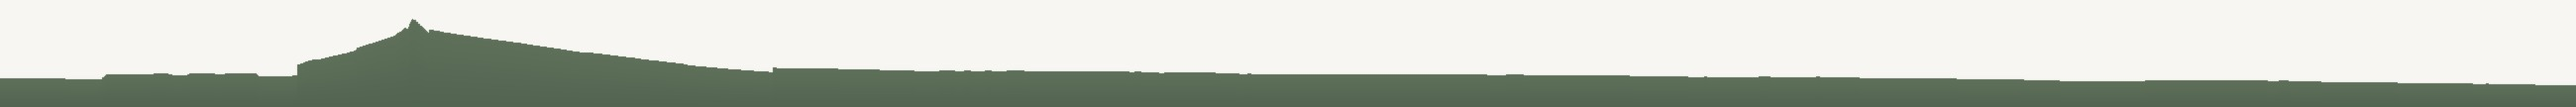
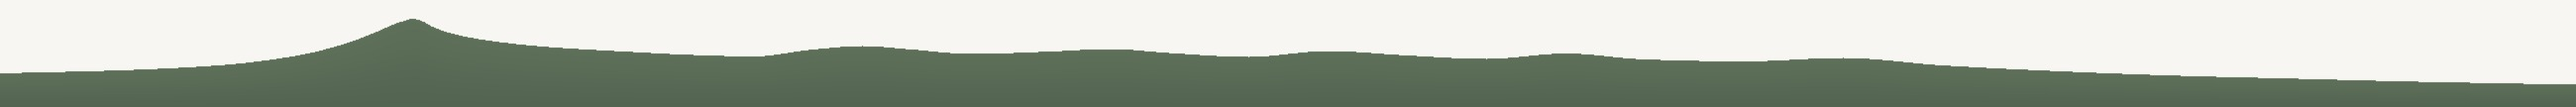
Trace Gene’s mirrored Diablo lock: high left, soft rolls right.
Primary crest sits in the Lafayette triangle; a shallow saddle, secondary roll, mid-band rhythm, and quiet right tail follow the lock photo character instead of a multi-peak construction.

diff --git a/app/page.tsx b/app/page.tsx
@@ -73,7 +73,7 @@ export default function Home() {
         <div className="pulse-home-ridge__scene" aria-hidden="true">
           <div className="pulse-home-ridge__align max-w-7xl mx-auto px-4 sm:px-6 lg:px-8">
             <img
-              src="/pulse-ridge.jpg?v=diablo-7"
+              src="/pulse-ridge.jpg?v=lock-1"
               alt=""
               width={2600}
               height={108}
